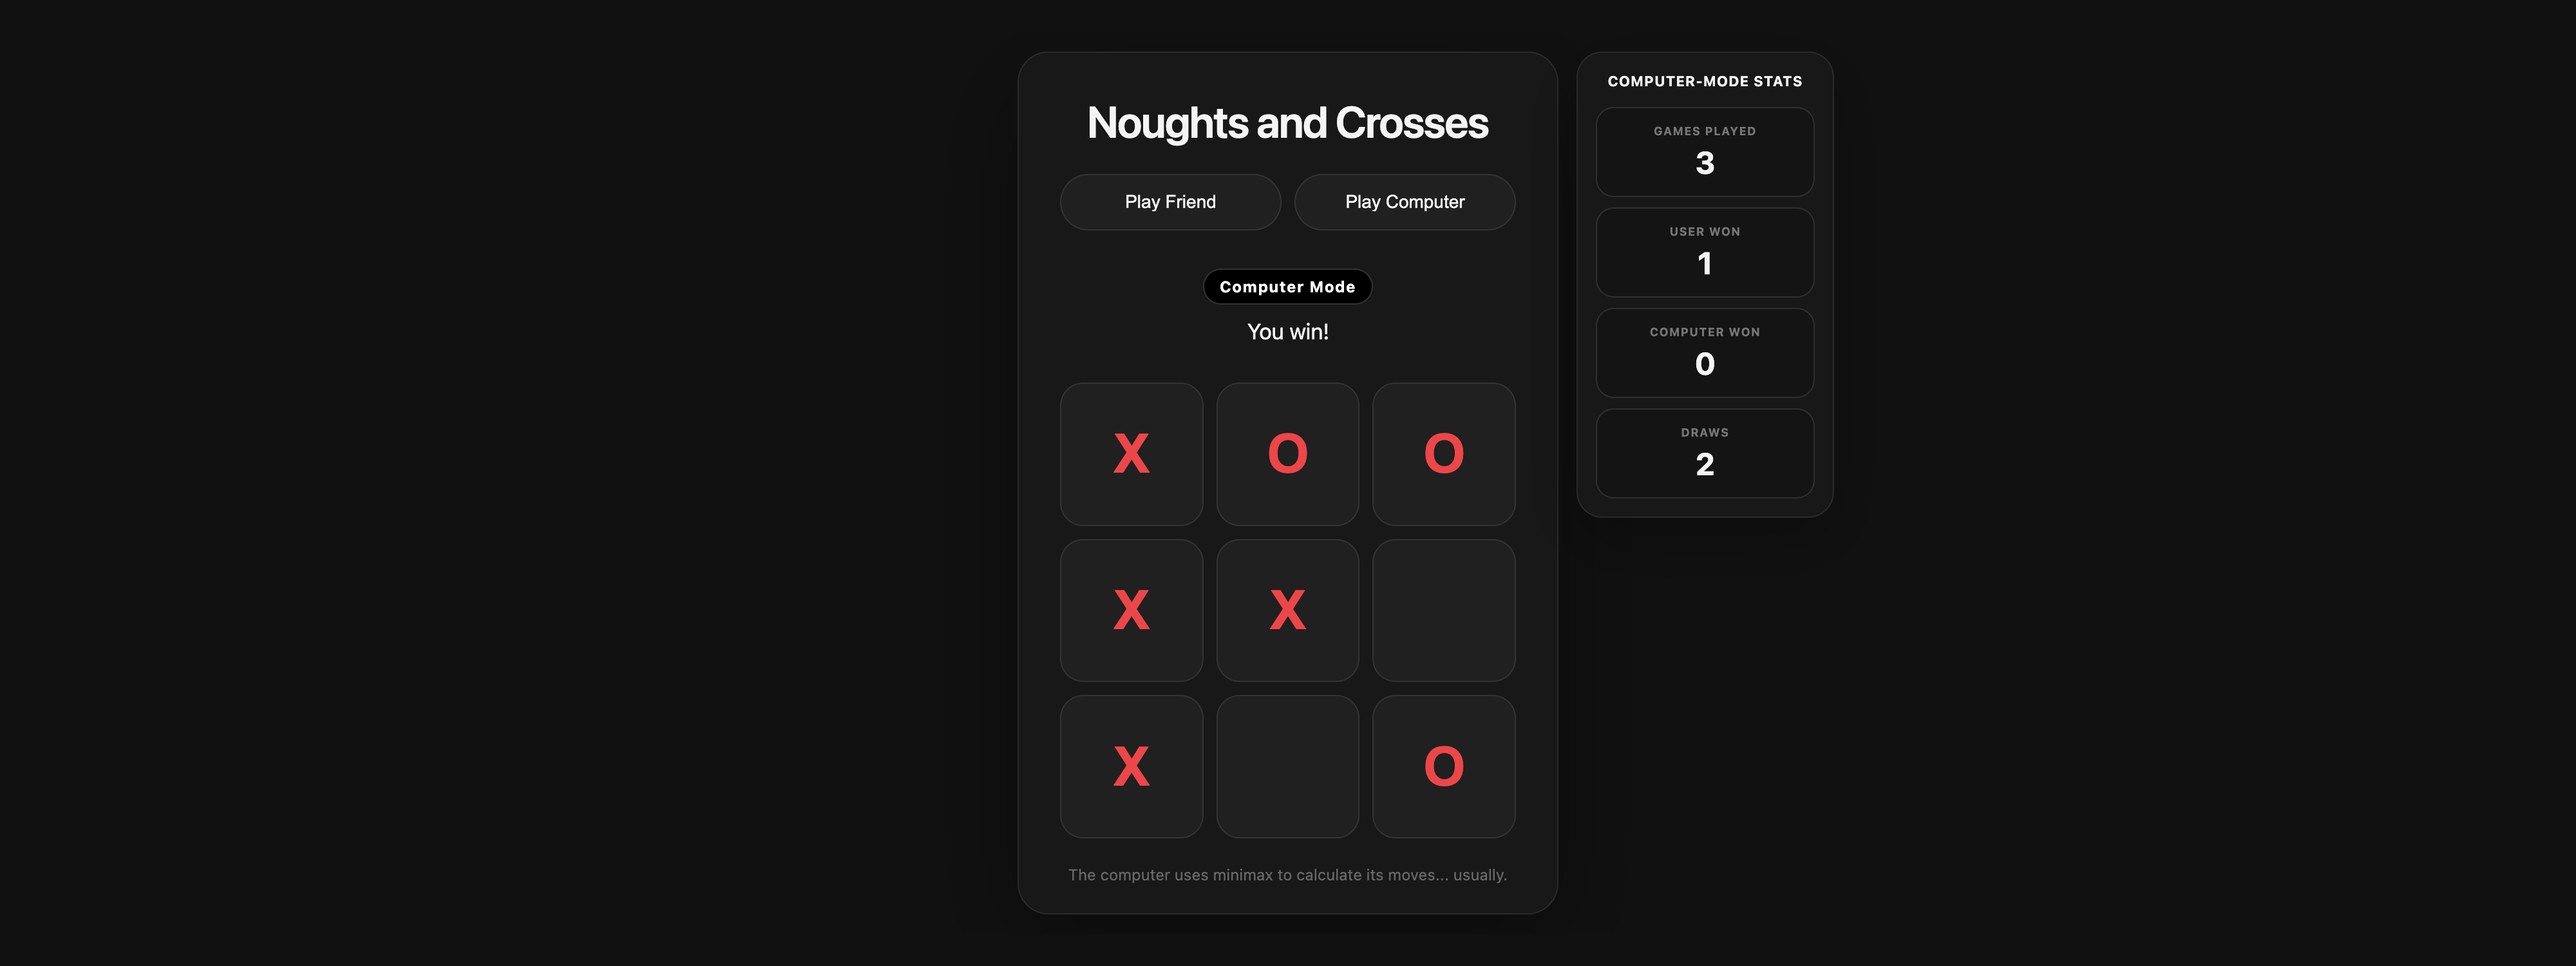
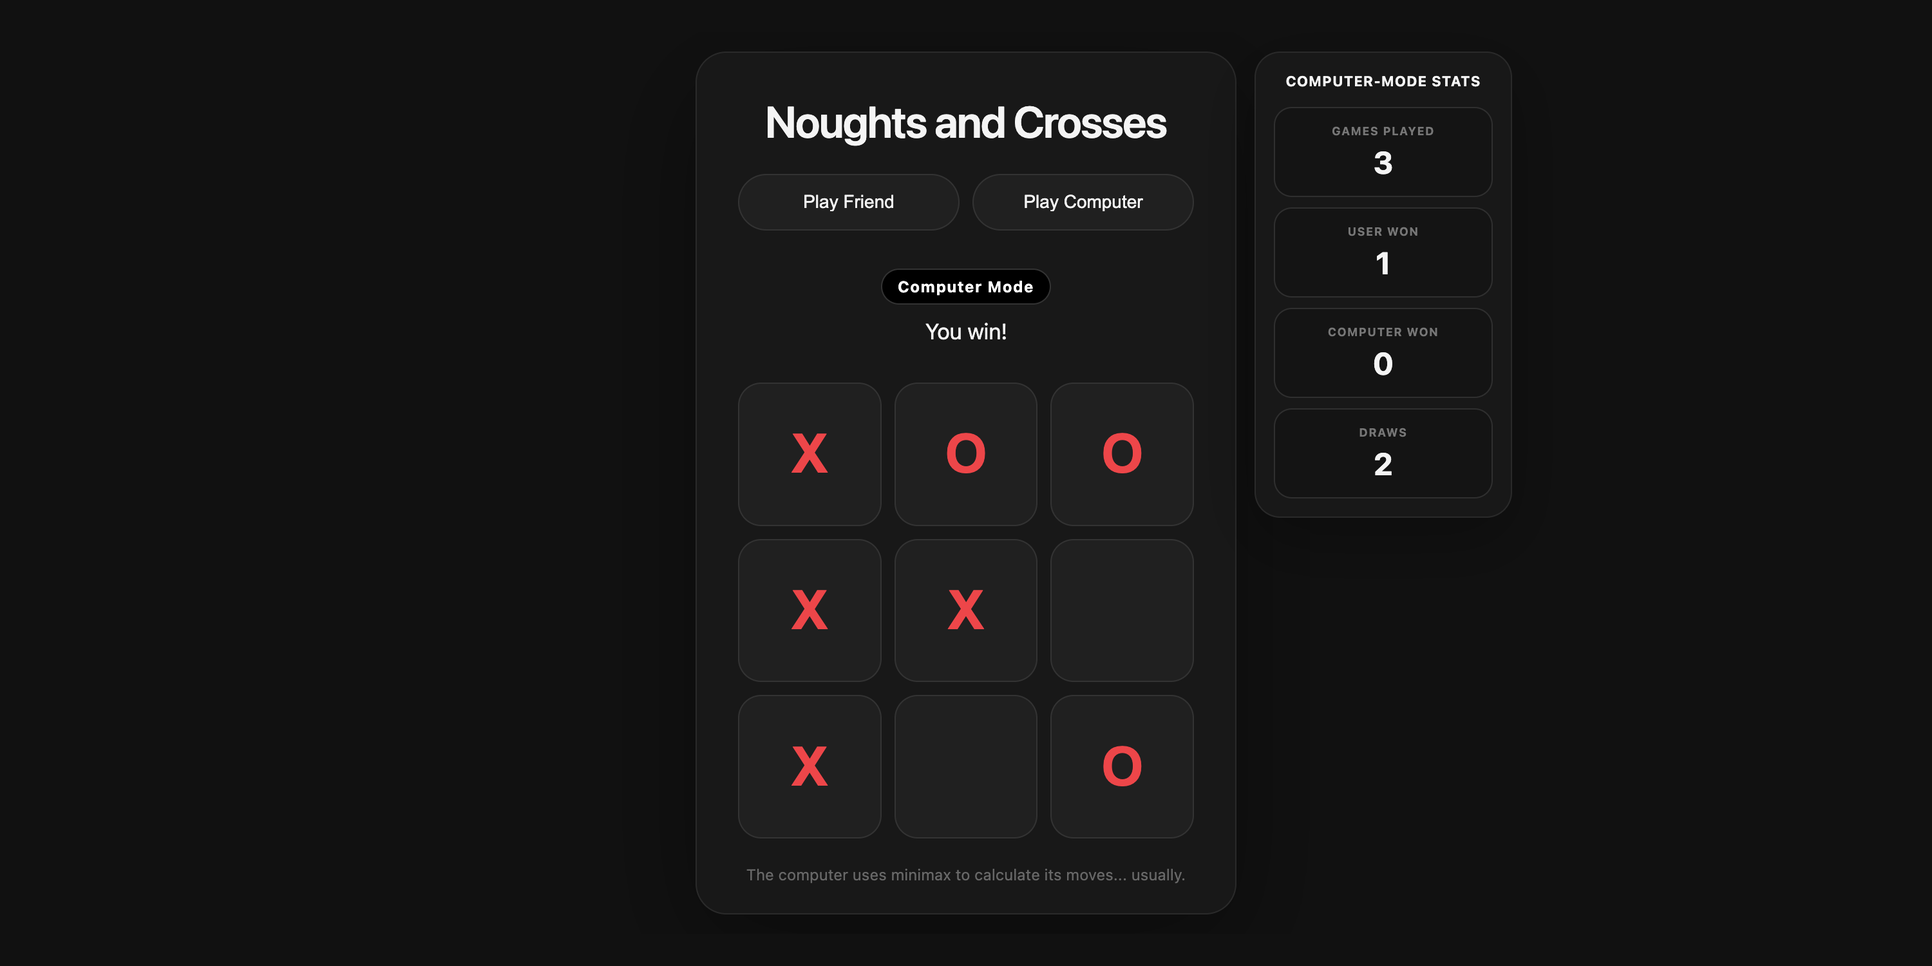
Updated screenshot figure

diff --git a/README.md b/README.md
@@ -5,7 +5,7 @@ A browser-based noughts and crosses (tic tac toe) game deployed to AWS with Terr
 Live CloudFront deployment: <https://d2mrwywexba4ua.cloudfront.net>
 
 <p align="center">
-  <img src="figures/noughts-and-crosses-screenshot.png" alt="Screenshot of live deployment.">
+  <img src="figures/noughts-and-crosses-screenshot.png" alt="Screenshot of the live deployment.">
   <br>
   <em>Figure 1: Screenshot of the live deployment.</em>
 </p>
